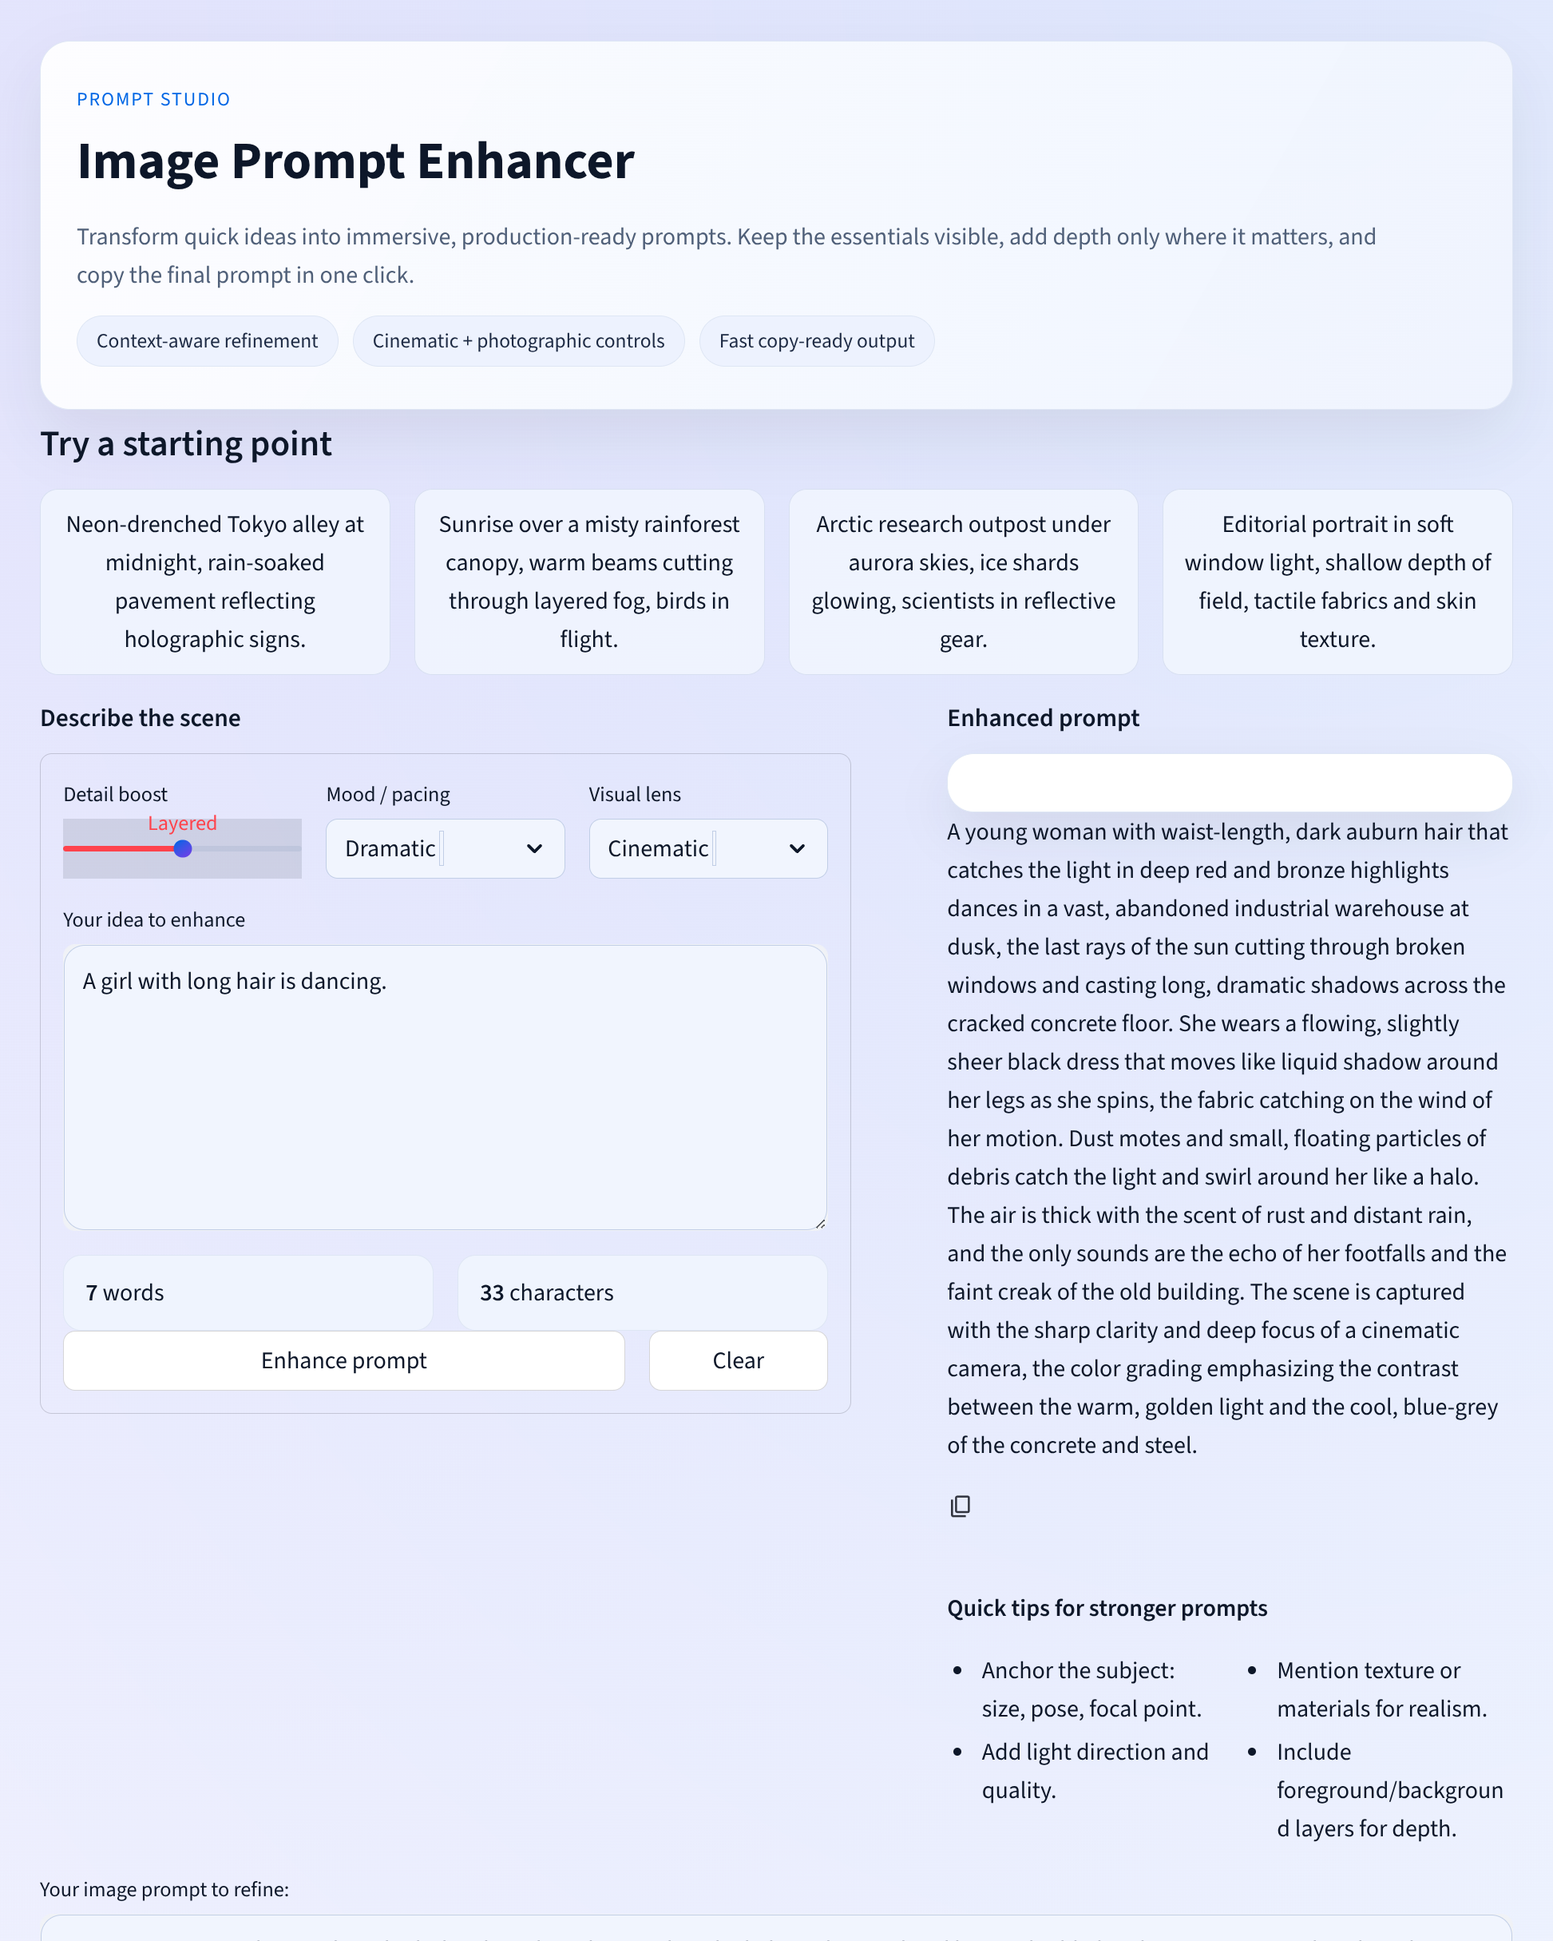
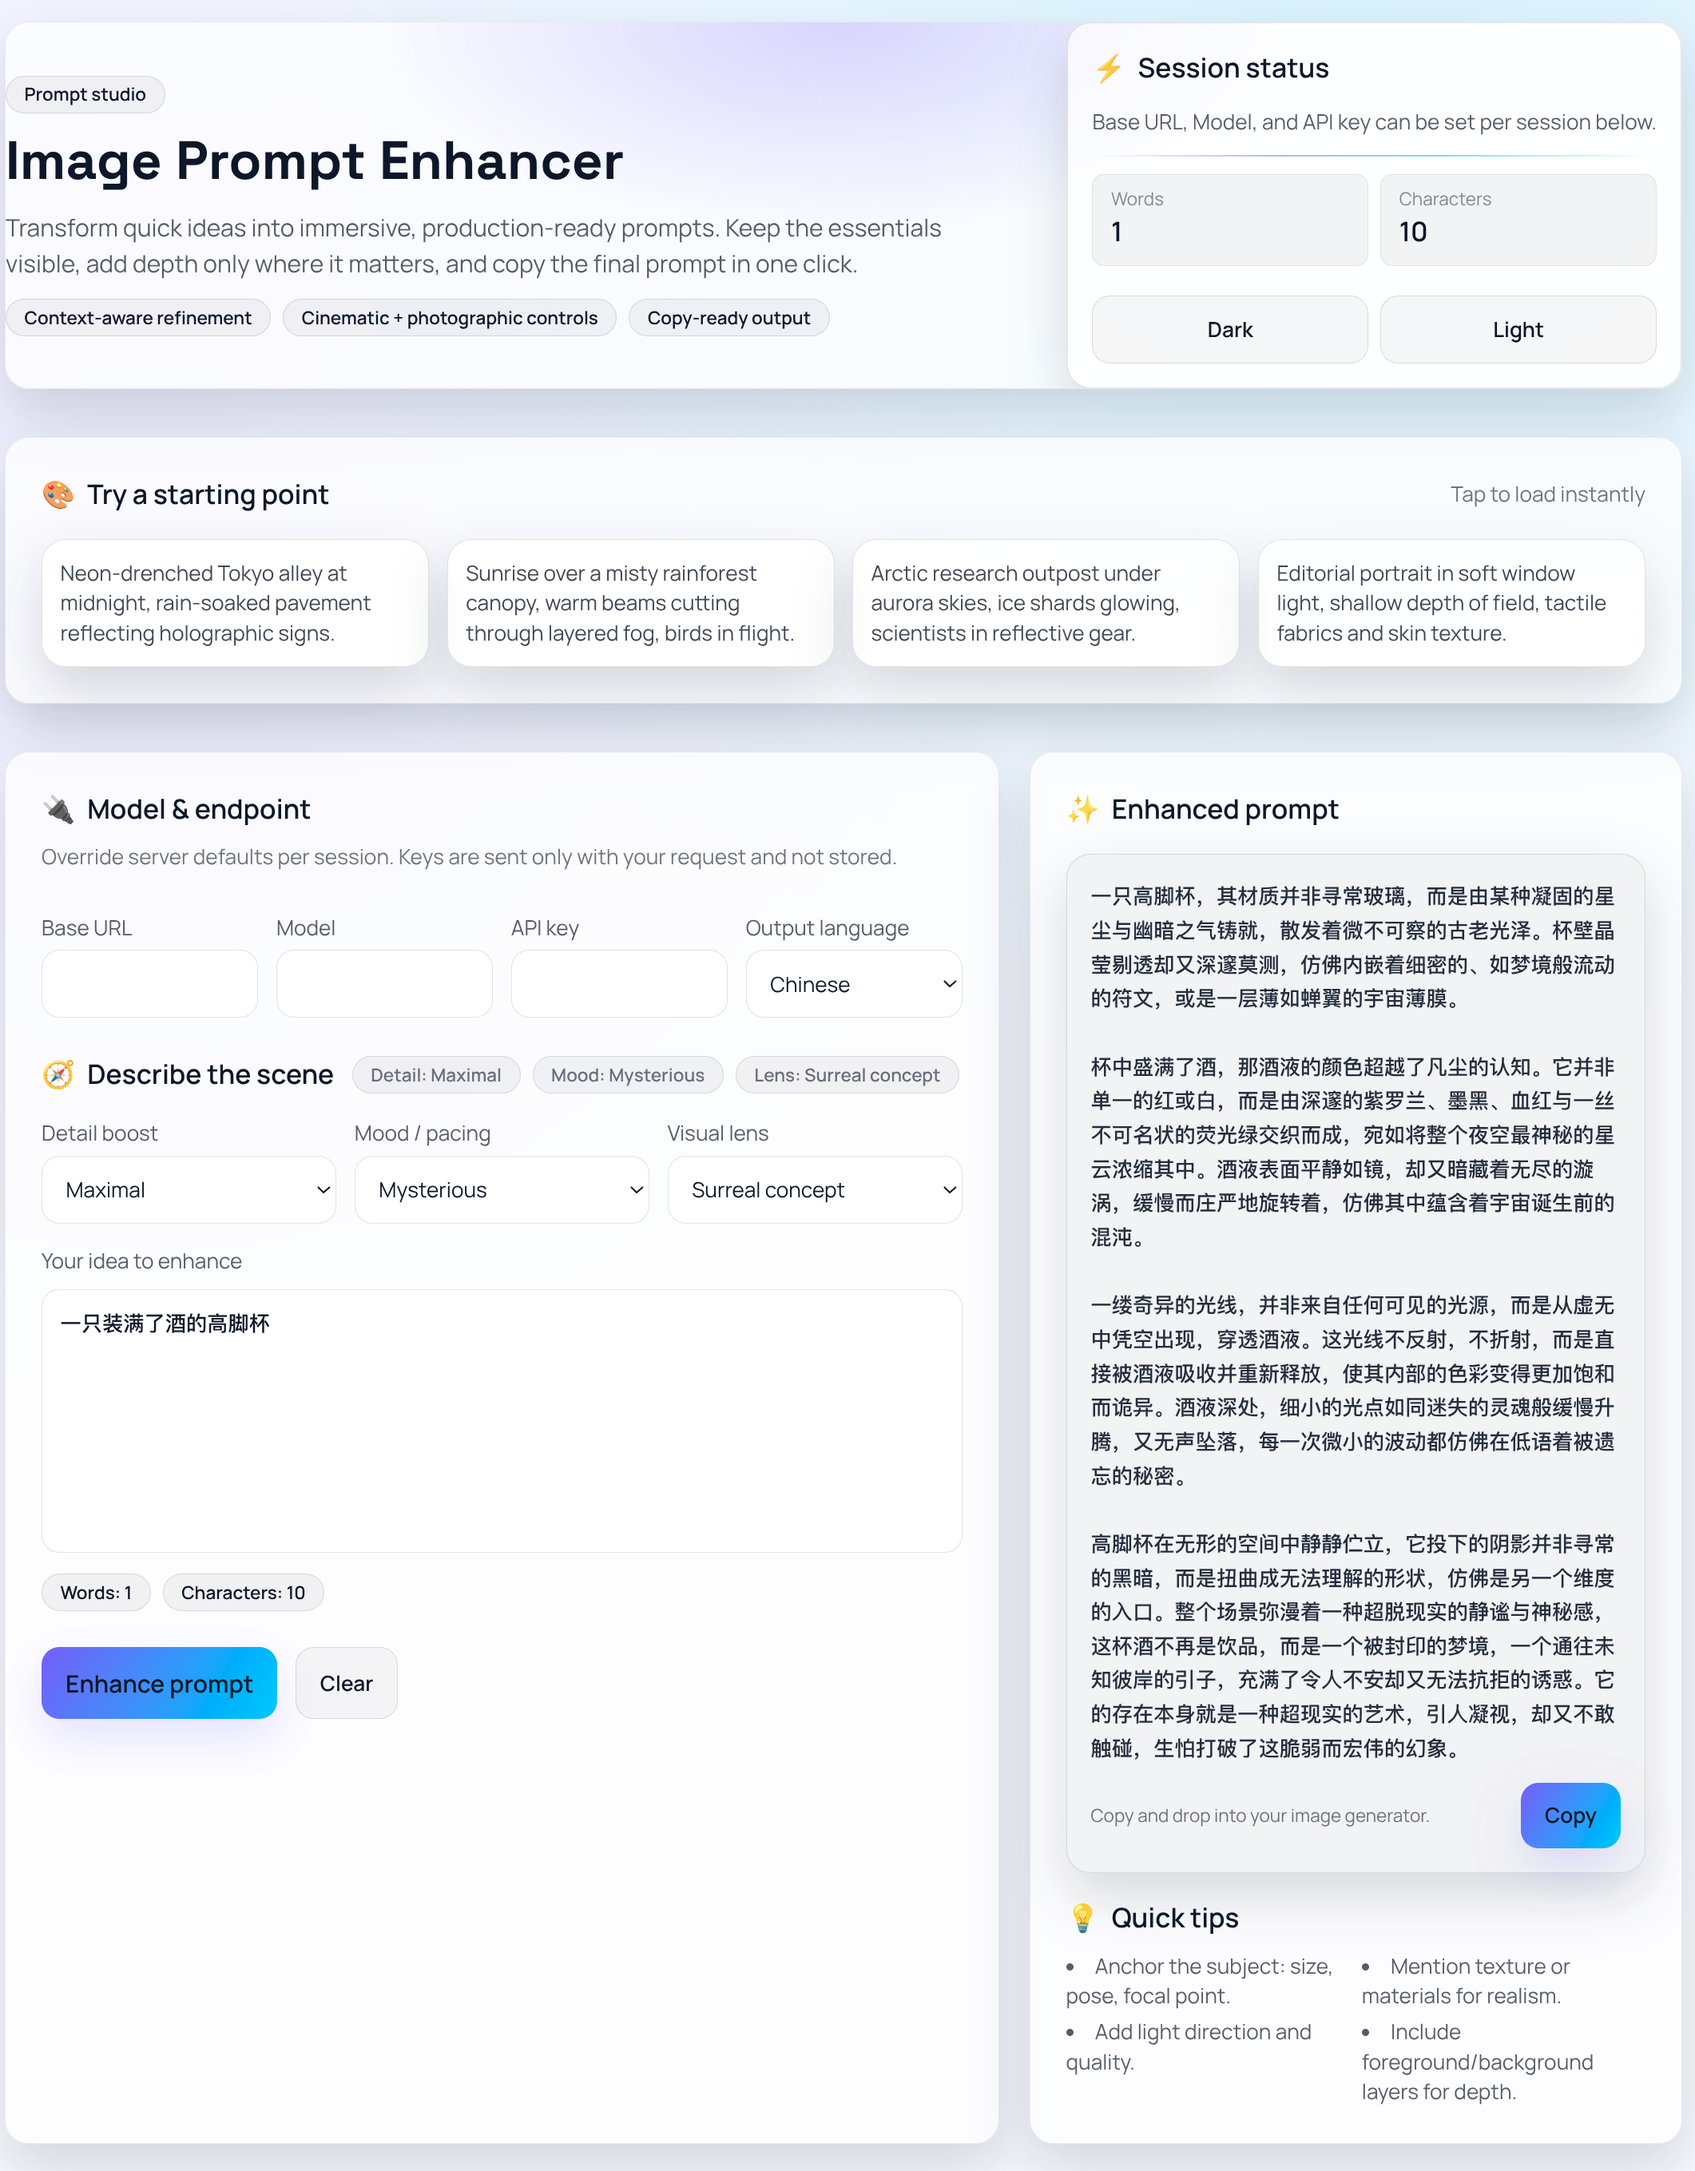
add screenshot

diff --git a/ReadMe.md b/ReadMe.md
@@ -8,6 +8,9 @@ A TypeScript rebuild of the original Streamlit app. React + Vite UI on top of a 
 - Guided refinement (detail, mood, visual lens) plus prompt stats and one-click copy.
 - Tailwind CSS, React, Vite frontend; Express + OpenAI SDK backend.
 
+![Screenshot](./screenshot.png)
+
+
 ### Quick Start (dev)
 1) Install deps (Node 20+):
 ```bash
